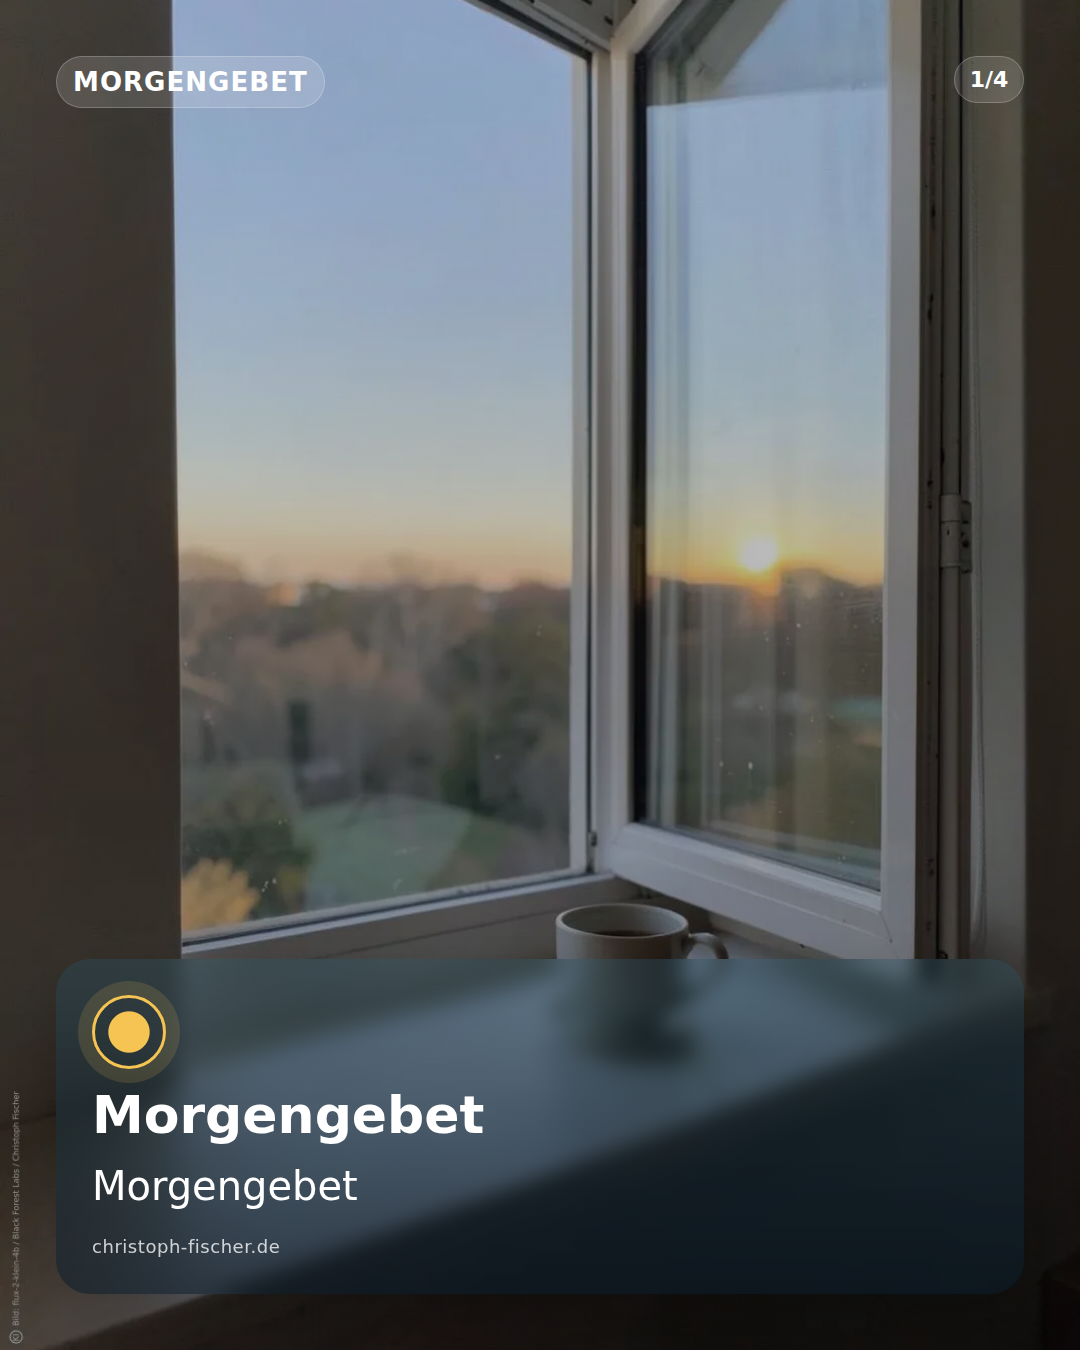
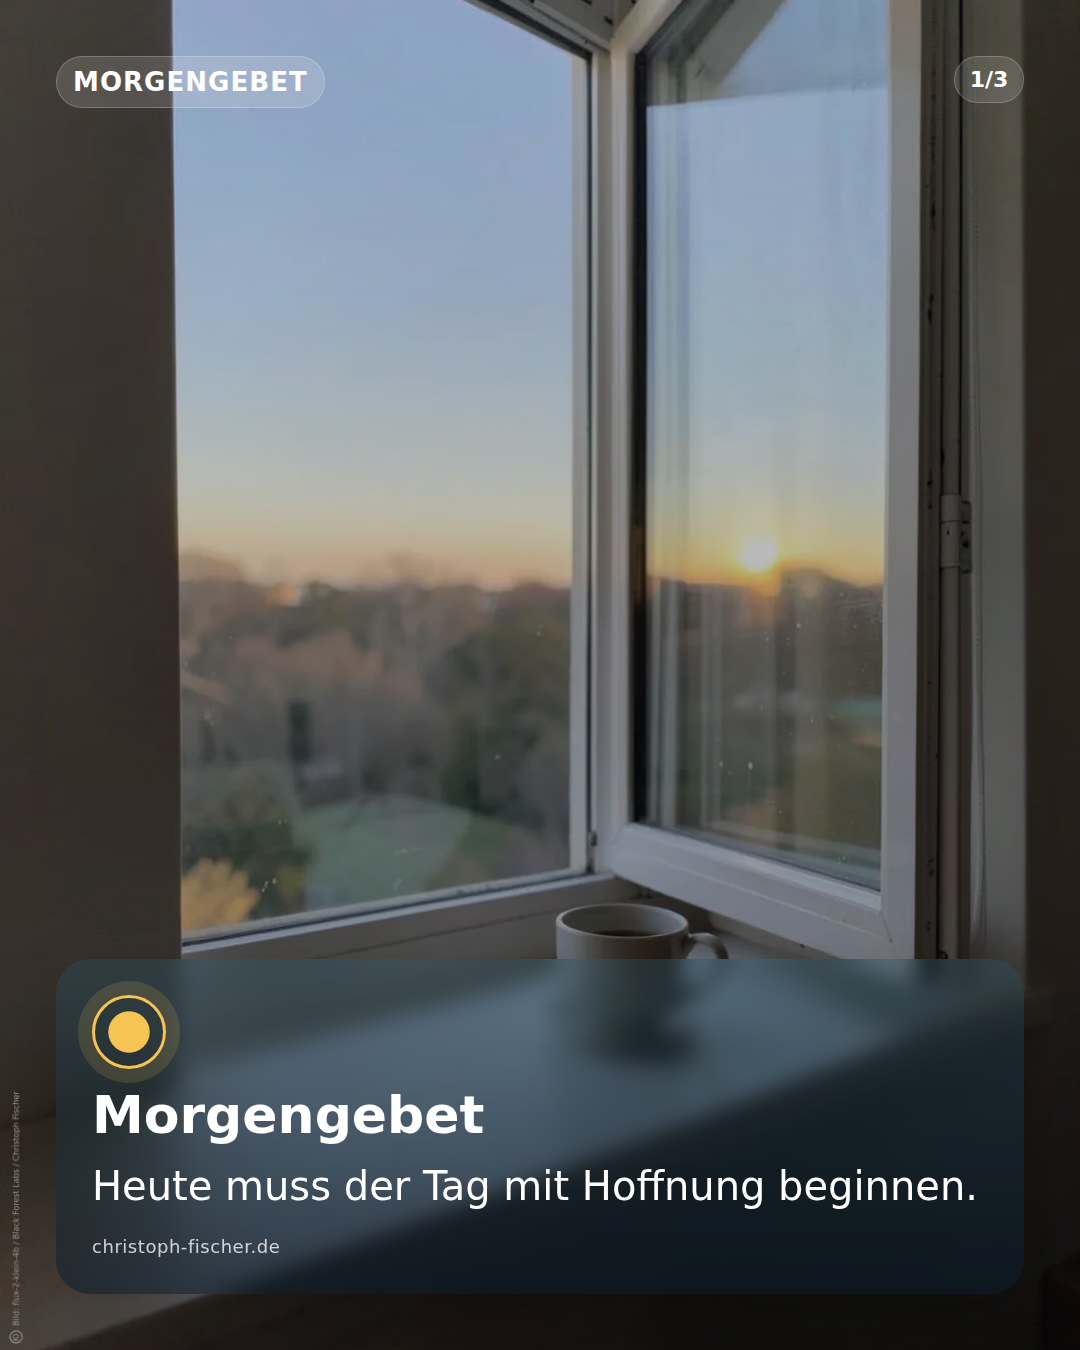
Update content: GET /files/2026-09-07/prayer-morning-2026-09-07/render-instagram-story-01.png

Changed region(s): [[0.3972, 0.8711, 0.8861, 0.9022], [0.0917, 0.8711, 0.3667, 0.9022]]

diff --git a/2026-09-07/prayer-morning-2026-09-07/render-instagram-feed-03.html b/2026-09-07/prayer-morning-2026-09-07/render-instagram-feed-03.html
@@ -396,11 +396,11 @@
       <section class="layout">
         <div class="panel-meta">
           <div class="eyebrow">Morgengebet</div>
-          <div class="pager">3/4</div>
+          <div class="pager">3/3</div>
         </div>
         <section class="panel prayer-panel">
   <div class="prayer-symbol prayer-symbol-morning" aria-hidden="true"></div>
-  <p class="body-text" data-overflow-id="primary-text">Die Güte des Herrn hat kein Ende.</p>
+  <p class="body-text" data-overflow-id="primary-text">Hilf uns, gerade angesichts von Hass und Härte, von Dunkelheit und Furcht, Menschen der Hoffnung zu sein. Deiner Hoffnung.</p>
   <p class="sender-mark">christoph-fischer.de</p>
 </section>
 

diff --git a/2026-09-07/prayer-morning-2026-09-07/render-instagram-feed-02.html b/2026-09-07/prayer-morning-2026-09-07/render-instagram-feed-02.html
@@ -396,11 +396,11 @@
       <section class="layout">
         <div class="panel-meta">
           <div class="eyebrow">Morgengebet</div>
-          <div class="pager">2/4</div>
+          <div class="pager">2/3</div>
         </div>
         <section class="panel prayer-panel">
   <div class="prayer-symbol prayer-symbol-morning" aria-hidden="true"></div>
-  <p class="body-text" data-overflow-id="primary-text">Heute muss der Tag mit Hoffnung beginnen.</p>
+  <p class="body-text" data-overflow-id="primary-text">Die Güte des Herrn hat kein Ende.</p>
   <p class="sender-mark">christoph-fischer.de</p>
 </section>
 
